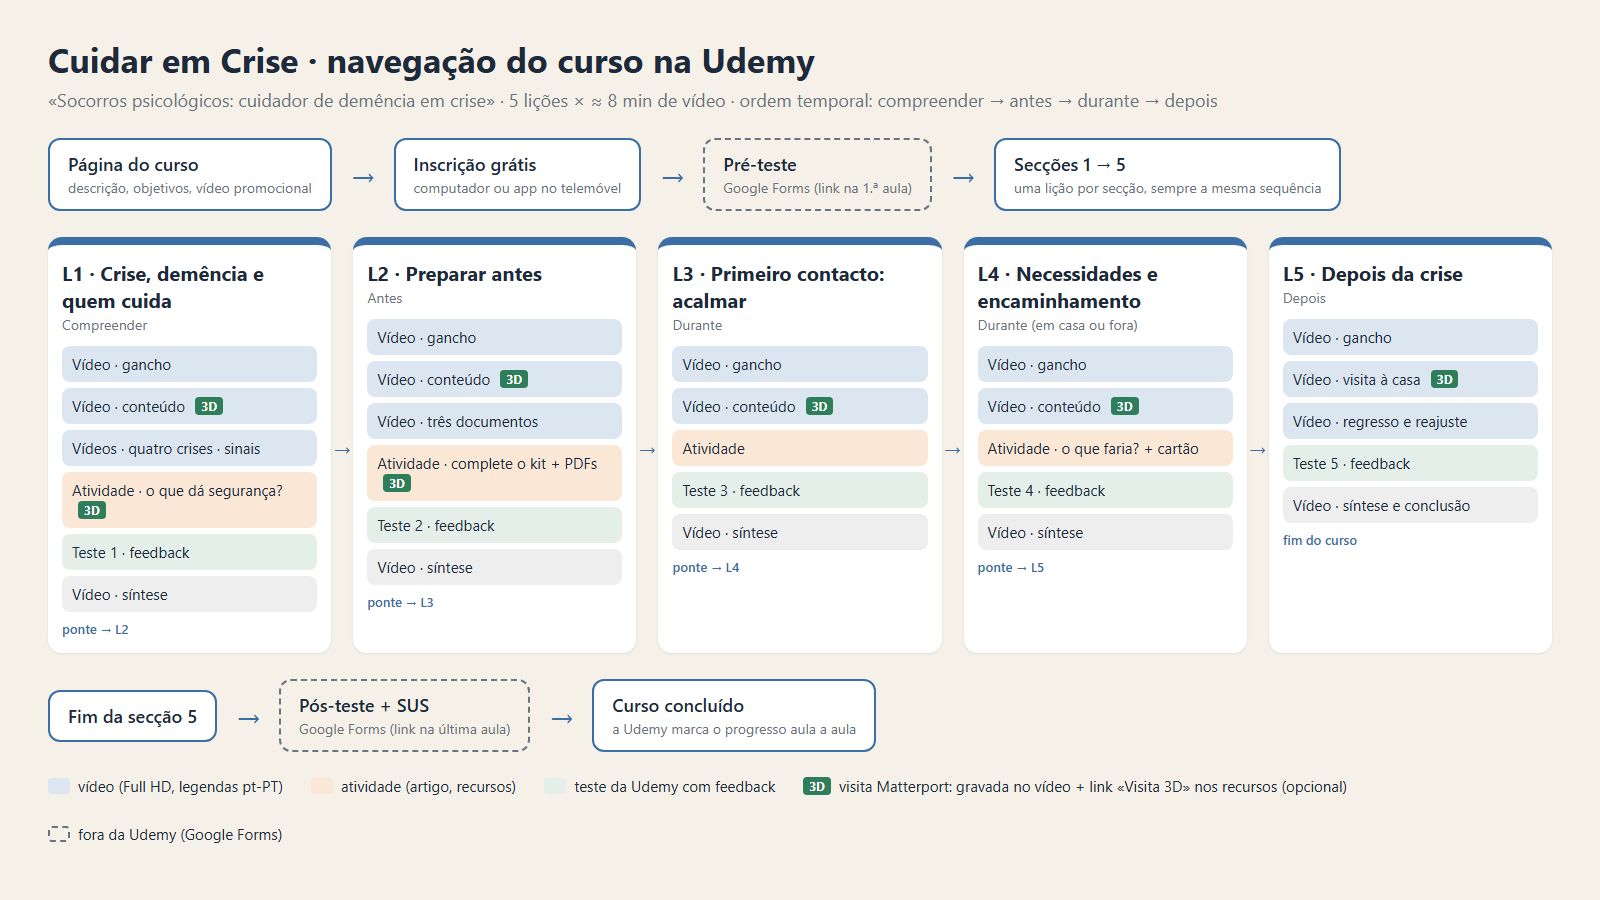
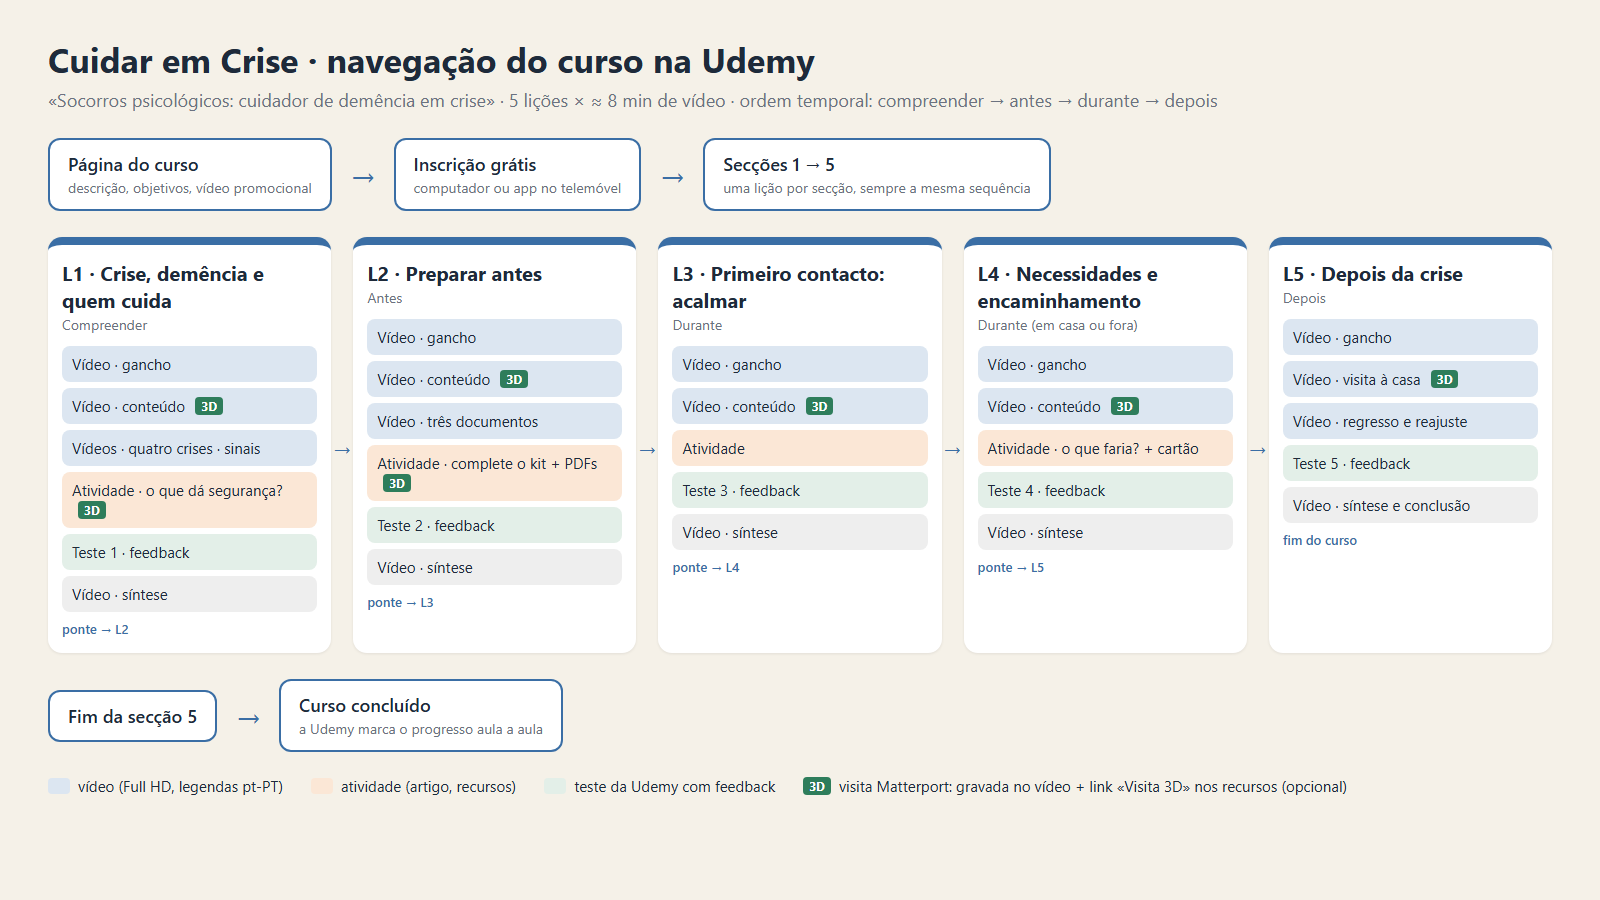
S8: sem Google Forms (pré/pós-teste e SUS cortados); a avaliação são os testes Alfa e Beta do S7

diff --git a/Files/P1/S8_Navegacao_Curso.html b/Files/P1/S8_Navegacao_Curso.html
@@ -38,8 +38,6 @@ h1{margin:0;font-size:34px}
   <div class="arrow">→</div>
   <div class="box">Inscrição grátis<small>computador ou app no telemóvel</small></div>
   <div class="arrow">→</div>
-  <div class="box ext">Pré-teste<small>Google Forms (link na 1.ª aula)</small></div>
-  <div class="arrow">→</div>
   <div class="box">Secções 1 → 5<small>uma lição por secção, sempre a mesma sequência</small></div>
 </div>
 
@@ -86,8 +84,6 @@ h1{margin:0;font-size:34px}
 <div class="row">
   <div class="box">Fim da secção 5</div>
   <div class="arrow">→</div>
-  <div class="box ext">Pós-teste + SUS<small>Google Forms (link na última aula)</small></div>
-  <div class="arrow">→</div>
   <div class="box">Curso concluído<small>a Udemy marca o progresso aula a aula</small></div>
 </div>
 
@@ -96,6 +92,5 @@ h1{margin:0;font-size:34px}
   <span><i class="sw" style="background:#FBE7D6"></i>atividade (artigo, recursos)</span>
   <span><i class="sw" style="background:#E3EFE8"></i>teste da Udemy com feedback</span>
   <span><span class="mp" style="display:inline-block;font-size:12px;font-weight:700;color:#fff;background:var(--verde);border-radius:4px;padding:1px 6px">3D</span> visita Matterport: gravada no vídeo + link «Visita 3D» nos recursos (opcional)</span>
-  <span><i class="sw" style="border:2px dashed var(--cinza)"></i>fora da Udemy (Google Forms)</span>
 </div>
 </div></body></html>

diff --git a/Files/P1_Plano_Bruno.html b/Files/P1_Plano_Bruno.html
@@ -426,7 +426,7 @@ footer{margin-top:40px;color:var(--muted);font-size:.85rem}
 </label></li>
   <li><input type="checkbox" id="t-8-3" data-star><label for="t-8-3"><span class="id">8.3</span><span class="star">★</span> <span class="t">[G] <em>04/11: esquema feito (<code>P1/S8_Navegacao_Curso_Grupo1.png</code>, fonte <code>.html</code>); falta o Gantt.</em> <strong>Gantt final</strong> (<code>S2_Gantt_Grupo1.xlsx</code> e o do <code>.docx</code>, iguais, com as datas reais) + <strong>esquema de navegação</strong> do curso.</span>
 <span class="how"><ul>
-<li>Esquema (diagrama): página do curso → pré-teste (Google Forms) → secções L1–L5 → em cada uma: vídeos → atividade → teste → síntese → pós-teste + SUS no fim; link «Visita 3D» nas aulas com Matterport.</li>
+<li>Esquema (diagrama): página do curso → inscrição → secções L1–L5 → em cada uma: vídeos → atividade → teste → síntese; link «Visita 3D» nas aulas com Matterport. (Sem Google Forms: cortado a 04/11.)</li>
 <li>Pasta: <code>03_Gantt_Navegacao</code>.</li>
 </ul></span>
 </label></li>

diff --git a/Files/P1/S8_Conteudo_Zip.md b/Files/P1/S8_Conteudo_Zip.md
@@ -10,7 +10,7 @@ Nota de trabalho (04/11). Quem junta: Bruno. Na **segunda 09/11** monta-se o .zi
 | `01_MOOC` | `Seccao_1_L1.png` … `Seccao_5_L5.png` (vista de aluno) | capturas de cada um | **(sexta)** **[todos]** |
 | `02_Relatorio` | `S8_Relatorio_Final_Grupo1.pdf` | `S8_Relatorio_Final.md` + `L{1..5}/S8_Relatorio_L{n}.md` | esqueleto 04/11; lições até dom 08/11 **[todos]** |
 | `03_Gantt_Navegacao` | `S2_Gantt_Grupo1.xlsx` (e PDF) | `S2_Gantt_Grupo1.xlsx` (datas reais até 10/11) | **por atualizar** (sáb 07/11) |
-| `03_Gantt_Navegacao` | `S8_Navegacao_Curso_Grupo1.png` | `S8_Navegacao_Curso.html` → PNG | feito 04/11 (rever o pré/pós-teste) |
+| `03_Gantt_Navegacao` | `S8_Navegacao_Curso_Grupo1.png` | `S8_Navegacao_Curso.html` → PNG | feito 04/11 |
 | `04_Guioes` | `S8_Guiao_L1_Grupo1.pdf` … `S8_Guiao_L5_Grupo1.pdf` | `L{n}/Guiao_L{n}.md` (L3: **[Rodrigo]**) | depois da gravação **[todos]** |
 | `05_Regras_Udemy` | `S8_Regras_Udemy_Grupo1.pdf` | `S8_Regras_Udemy.md` | rascunho 04/11; números na sexta |
 | `06_Testes_Melhorias` | `S8_Testes_Melhorias_Grupo1.pdf` | relatório §9 + `L{n}/S7_Notas_Testes_L{n}.md` + folha do Moodle | L1 feita 04/11 **[outros]** |

diff --git a/Files/P1/S8_Relatorio_Final.md b/Files/P1/S8_Relatorio_Final.md
@@ -25,7 +25,7 @@ Curso na Udemy: «Socorros psicológicos: cuidador de demência em crise» · li
 
 | Etapa | Entrega | O que se decidiu ou fez |
 |---|---|---|
-| S1 (29/09) | Análise de plataformas | Udemy, Moodle + H5P e Open edX comparados; escolhida a Udemy (+ Google Forms para a avaliação externa) |
+| S1 (29/09) | Análise de plataformas | Udemy, Moodle + H5P e Open edX comparados; escolhida a Udemy (o Google Forms para a avaliação externa ficou de fora: a avaliação são os testes Alfa e Beta do S7) |
 | S2 (06/10) | MOOC-choice + planning | Tema, público, objetivo, Gantt da equipa; reescrito para um contexto de crise depois da Aula 3 (5 elementos: público, situação, contexto, decisões, Matterport) |
 | S3 (13/10) | MOOC Template | As 5 lições em sequência temporal, padrão comum (gancho → vídeo → atividade → teste → síntese); validado a 20/10, com o pedido de pôr as crises também nas atividades e no Matterport |
 | S4 (20/10) | Primeiras evidências | Trabalho individual: guião, storyboard, modelo visual comum, atividade e teste na Udemy |

diff --git a/Files/P1_Plano_Bruno.md b/Files/P1_Plano_Bruno.md
@@ -243,7 +243,7 @@
   - Quem fez o quê (uma lição por pessoa + tarefas de grupo).
   - Pasta: `02_Relatorio` (PDF).
 - [ ] **8.3** [G] *04/11: esquema feito (`P1/S8_Navegacao_Curso_Grupo1.png`, fonte `.html`); falta o Gantt.* **Gantt final** (`S2_Gantt_Grupo1.xlsx` e o do `.docx`, iguais, com as datas reais) + **esquema de navegação** do curso. ★
-  - Esquema (diagrama): página do curso → pré-teste (Google Forms) → secções L1–L5 → em cada uma: vídeos → atividade → teste → síntese → pós-teste + SUS no fim; link «Visita 3D» nas aulas com Matterport.
+  - Esquema (diagrama): página do curso → inscrição → secções L1–L5 → em cada uma: vídeos → atividade → teste → síntese; link «Visita 3D» nas aulas com Matterport. (Sem Google Forms: cortado a 04/11.)
   - Pasta: `03_Gantt_Navegacao`.
 - [ ] **8.4** [G] **Guiões finais de todas as lições.** O da L1: `Guiao_L1.md` → `S8_Guiao_L1_Grupo1.pdf` (com a narração final, as 9 tags e a atividade). ★
   - Pasta: `04_Guioes` (um PDF por lição).
